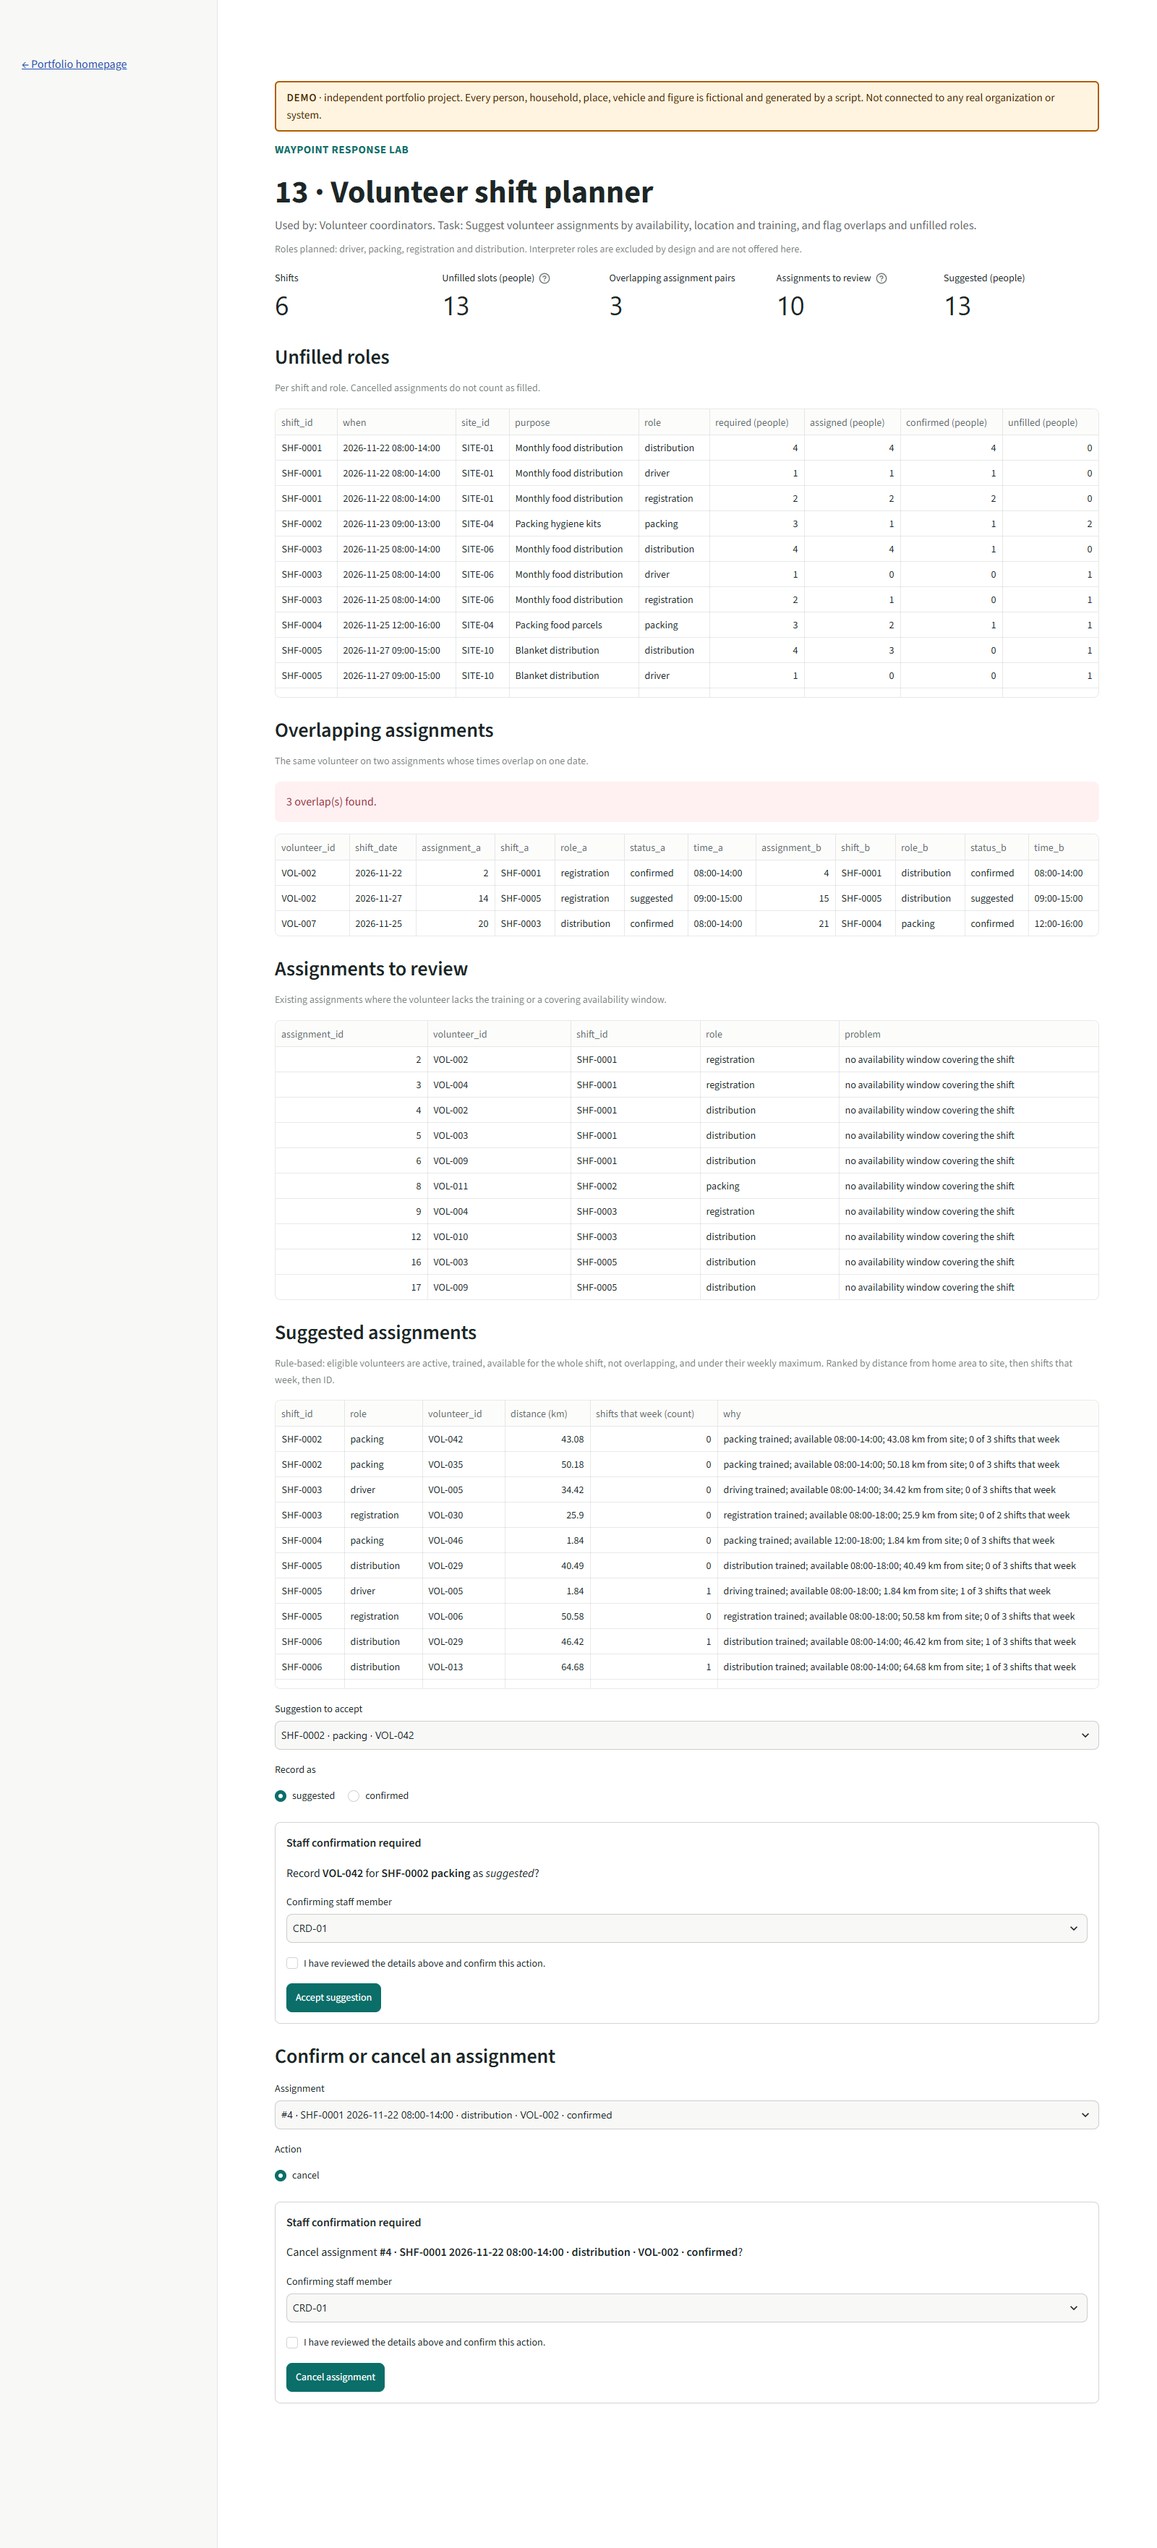
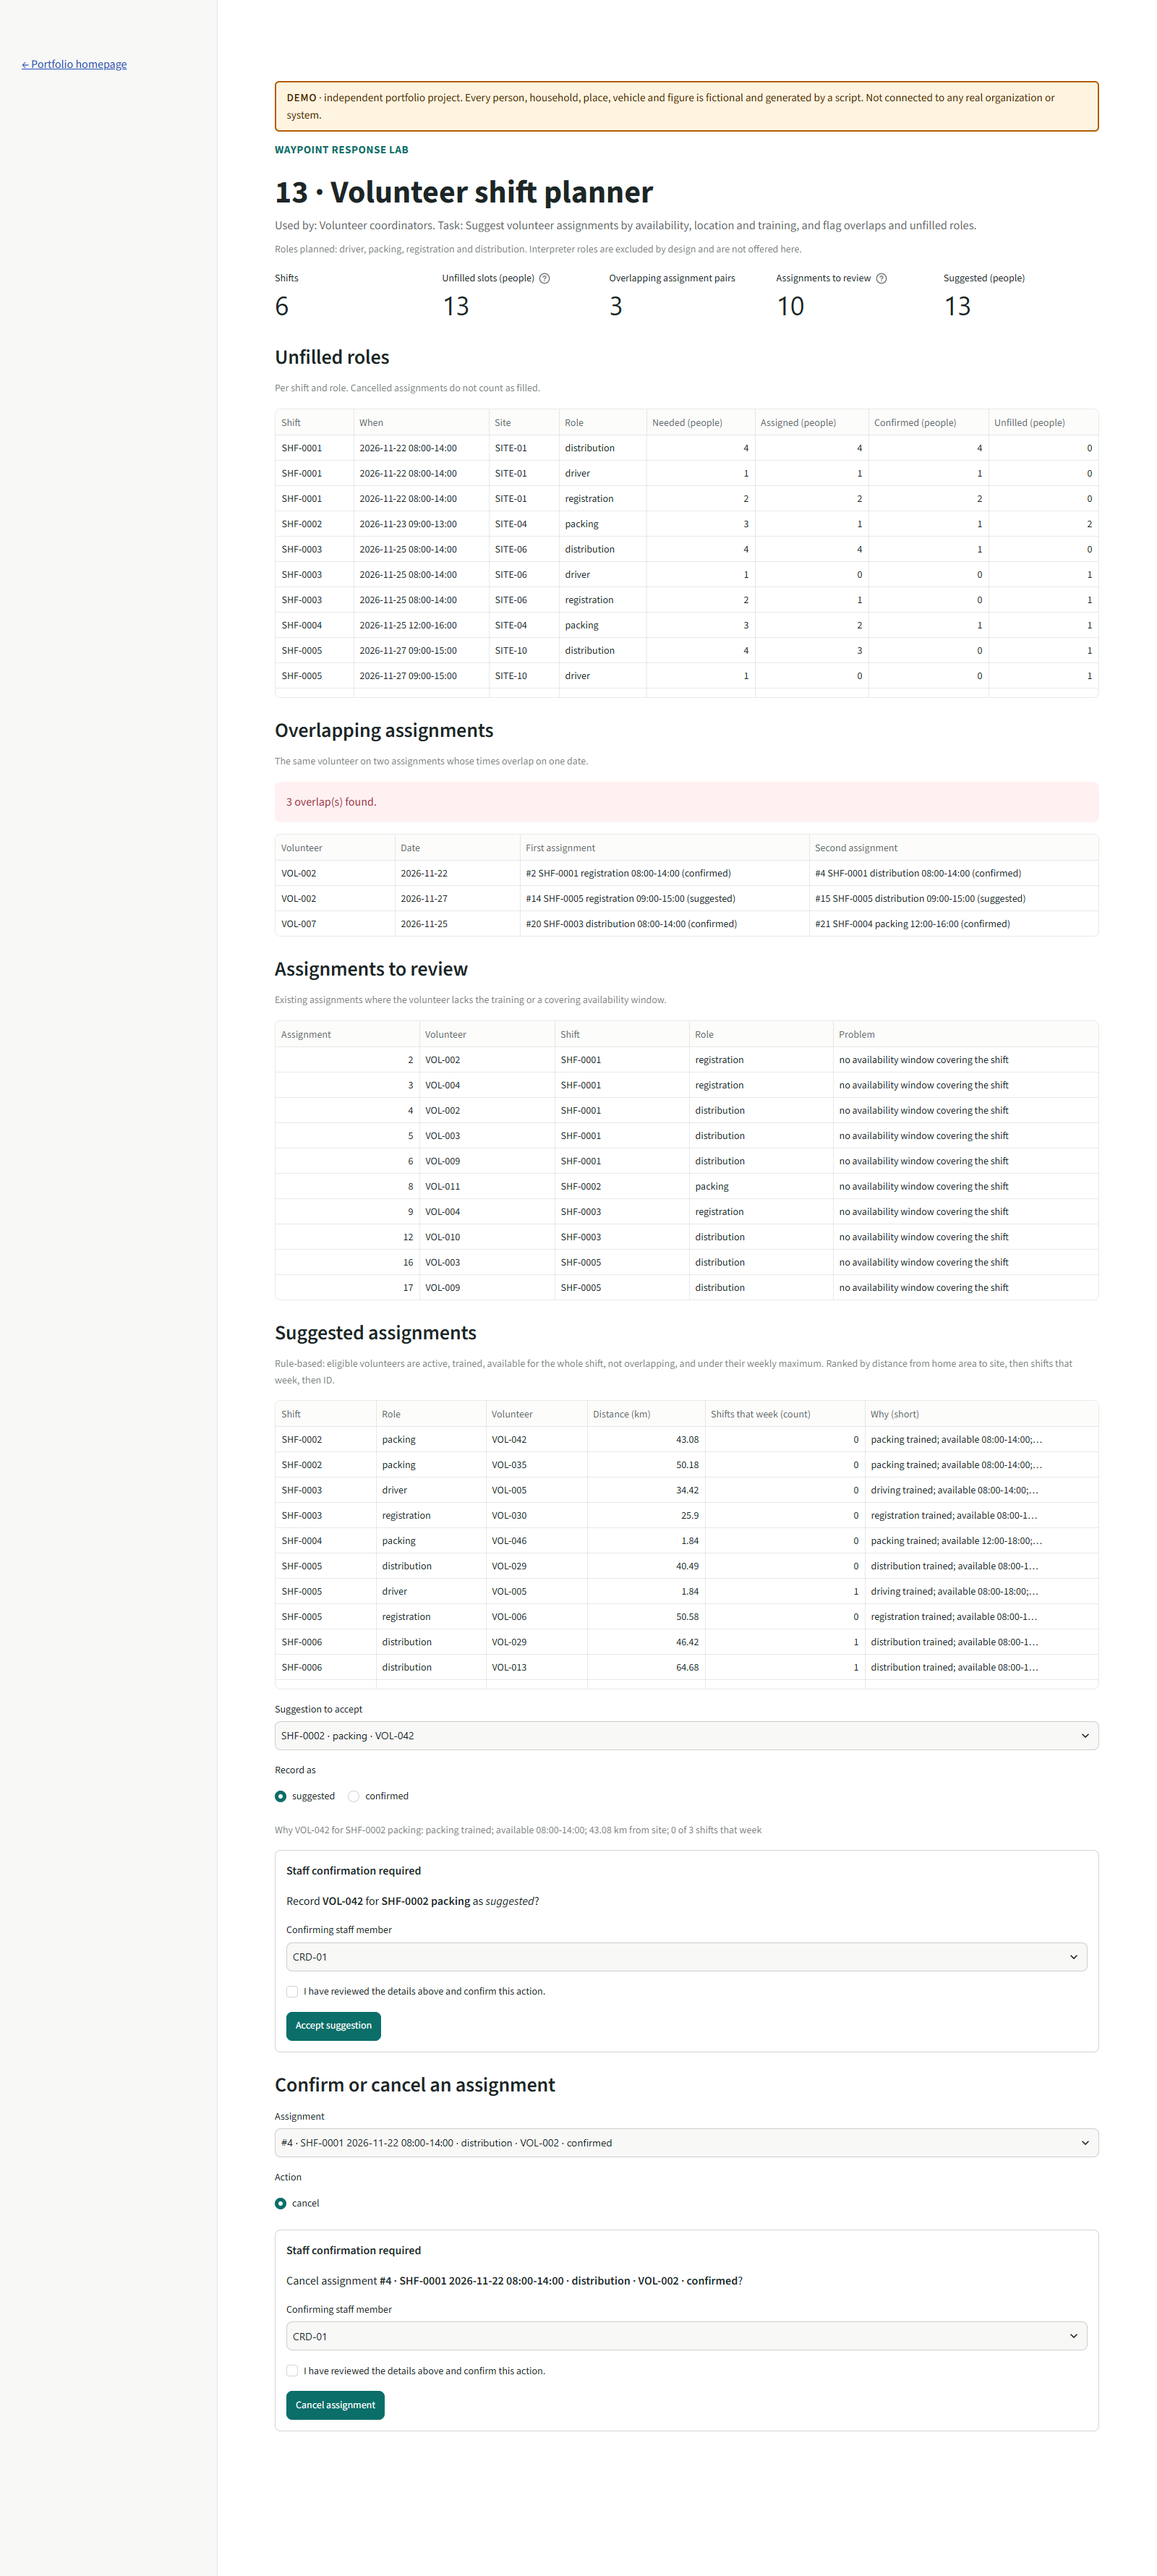
Project 13: narrower tables, confirmations, fresh screenshot

diff --git a/projects/13-volunteer-shift-planner/app.py b/projects/13-volunteer-shift-planner/app.py
@@ -44,12 +44,16 @@ ui.section("Unfilled roles", "Per shift and role. Cancelled assignments do not c
 slot_df = pd.DataFrame(slots)
 slot_df["when"] = slot_df["shift_date"] + " " + slot_df["start_time"] + "-" + slot_df["end_time"]
 ui.table(
-    slot_df[["shift_id", "when", "site_id", "purpose", "role", "required", "filled", "confirmed", "unfilled"]].rename(
+    slot_df[["shift_id", "when", "site_id", "role", "required", "filled", "confirmed", "unfilled"]].rename(
         columns={
-            "required": "required (people)",
-            "filled": "assigned (people)",
-            "confirmed": "confirmed (people)",
-            "unfilled": "unfilled (people)",
+            "shift_id": "Shift",
+            "when": "When",
+            "site_id": "Site",
+            "role": "Role",
+            "required": "Needed (people)",
+            "filled": "Assigned (people)",
+            "confirmed": "Confirmed (people)",
+            "unfilled": "Unfilled (people)",
         }
     )
 )
@@ -57,13 +61,47 @@ ui.table(
 ui.section("Overlapping assignments", "The same volunteer on two assignments whose times overlap on one date.")
 if over:
     st.error(f"{len(over)} overlap(s) found.")
-    ui.table(pd.DataFrame(over))
+    over_df = pd.DataFrame(over)
+    ui.table(
+        pd.DataFrame(
+            {
+                "Volunteer": over_df["volunteer_id"],
+                "Date": over_df["shift_date"],
+                "First assignment": "#"
+                + over_df["assignment_a"].astype(str)
+                + " "
+                + over_df["shift_a"]
+                + " "
+                + over_df["role_a"]
+                + " "
+                + over_df["time_a"]
+                + " ("
+                + over_df["status_a"]
+                + ")",
+                "Second assignment": "#"
+                + over_df["assignment_b"].astype(str)
+                + " "
+                + over_df["shift_b"]
+                + " "
+                + over_df["role_b"]
+                + " "
+                + over_df["time_b"]
+                + " ("
+                + over_df["status_b"]
+                + ")",
+            }
+        )
+    )
 else:
     st.success("No overlapping assignments.")
 
 if invalid:
     ui.section("Assignments to review", "Existing assignments where the volunteer lacks the training or a covering availability window.")
-    ui.table(pd.DataFrame(invalid))
+    ui.table(
+        pd.DataFrame(invalid)[["assignment_id", "volunteer_id", "shift_id", "role", "problem"]].rename(
+            columns={"assignment_id": "Assignment", "volunteer_id": "Volunteer", "shift_id": "Shift", "role": "Role", "problem": "Problem"}
+        )
+    )
 
 # -- suggestions -----------------------------------------------------------------
 ui.section(
@@ -72,15 +110,25 @@ ui.section(
     "maximum. Ranked by distance from home area to site, then shifts that week, then ID.",
 )
 if proposals:
+    sug_df = pd.DataFrame(proposals)[["shift_id", "role", "volunteer_id", "distance_km", "shifts_that_week", "why"]]
+    sug_df["why"] = sug_df["why"].map(lambda t: t if len(t) <= 40 else t[:39].rstrip() + "…")
     ui.table(
-        pd.DataFrame(proposals)[["shift_id", "role", "volunteer_id", "distance_km", "shifts_that_week", "why"]].rename(
-            columns={"distance_km": "distance (km)", "shifts_that_week": "shifts that week (count)"}
+        sug_df.rename(
+            columns={
+                "shift_id": "Shift",
+                "role": "Role",
+                "volunteer_id": "Volunteer",
+                "distance_km": "Distance (km)",
+                "shifts_that_week": "Shifts that week (count)",
+                "why": "Why (short)",
+            }
         )
     )
     labels = {i: f"{p['shift_id']} · {p['role']} · {p['volunteer_id']}" for i, p in enumerate(proposals)}
     pick = st.selectbox("Suggestion to accept", list(labels), format_func=lambda i: labels[i], key="p13_pick")
     status = st.radio("Record as", ["suggested", "confirmed"], horizontal=True, key="p13_status")
     chosen = proposals[pick]
+    st.caption(f"Why {chosen['volunteer_id']} for {chosen['shift_id']} {chosen['role']}: {chosen['why']}")
     staff = ui.confirm_action(
         "accept",
         f"Record **{chosen['volunteer_id']}** for **{chosen['shift_id']} {chosen['role']}** as *{status}*?",
